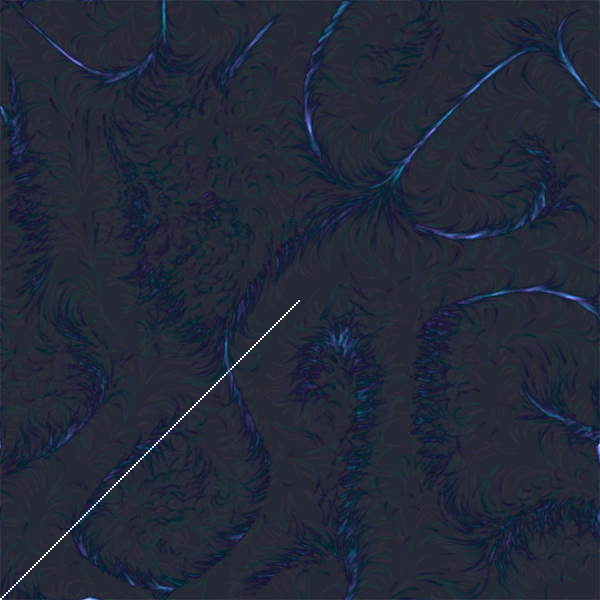
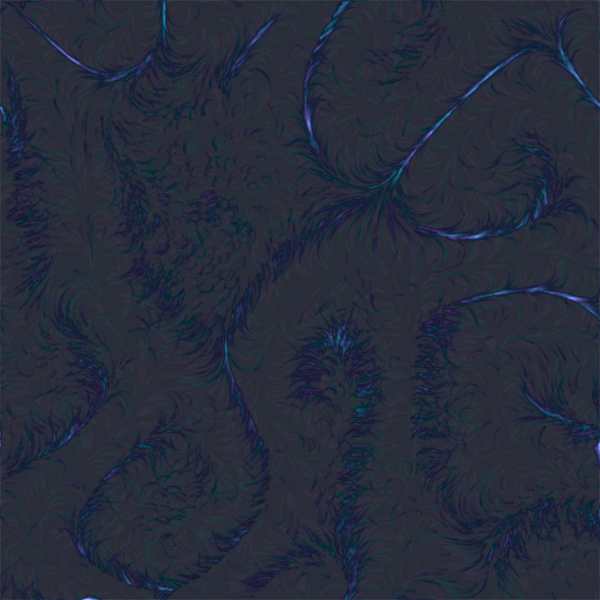
feat(web): give every example a still, and hold the blur back for the hover
The gallery ran ten scenes the moment you opened it and showed the other eight
behind a permanent frosted pane, so the ones you could see were the ones you
could not read. Now every card is a frame of its own scene, crisp, and the
scrim that makes the Run button legible only arrives with the pointer — or with
focus, since the control is reachable by tab and would otherwise be invisible
to whoever is using it that way.

Nothing runs until asked. That drops ten simultaneous WebGL contexts to none on
load, and it settles the question the keyboard change raised a moment ago: with
one scene running, the one listening for keys is not in doubt.

`capture:examples` covers all eighteen, warmed for what each is actually waiting
for — a particle system needs long enough to have particles, a physics pile long
enough to have fallen over, a poster is finished on frame one — and the bike
holds its throttle so it is caught over a bump rather than parked. The still is
filed under the scene's own name, so a new scene that forgets its capture shows
an empty frame instead of quietly borrowing someone else's.

diff --git a/apps/web/src/pages/examples.tsx b/apps/web/src/pages/examples.tsx
@@ -33,33 +33,40 @@ interface RunningScene {
 interface SceneSpec {
   readonly name: string;
   readonly run: (parent: HTMLElement) => RunningScene;
-  /** Skip autoplay: thousands of shapes, extra passes, or a WebGL hog. */
-  readonly heavy?: boolean;
-  /** Still shown under the Run overlay. Capture with `bun run capture:examples`. */
-  readonly preview?: string;
 }
 
 const PREVIEW = "/examples/assets/previews";
 
+/**
+ * The still for a scene, filed under its name.
+ *
+ * Every scene has one, so nothing has to be listed twice and a new scene that
+ * forgets its capture shows an empty frame rather than silently falling back
+ * to something else. Refresh them all with `bun run capture:examples`.
+ */
+function previewOf(name: string): string {
+  return `${PREVIEW}/${name.replaceAll(" ", "-")}.png`;
+}
+
 const SCENES: readonly SceneSpec[] = [
-  { name: "flow field", run: flowField, heavy: true, preview: `${PREVIEW}/flow-field.png` },
+  { name: "flow field", run: flowField },
   { name: "orbits", run: orbits },
   { name: "mouse trail", run: mouseTrail },
   { name: "particles", run: sparks },
-  { name: "grid waves", run: gridWaves, heavy: true, preview: `${PREVIEW}/grid-waves.png` },
+  { name: "grid waves", run: gridWaves },
   { name: "static poster", run: staticPoster },
   { name: "type specimen", run: typeSpecimen },
   { name: "image grid", run: imageGrid },
-  { name: "post bloom", run: postBloom, heavy: true, preview: `${PREVIEW}/post-bloom.png` },
-  { name: "petals", run: petals, heavy: true, preview: `${PREVIEW}/petals.png` },
+  { name: "post bloom", run: postBloom },
+  { name: "petals", run: petals },
   { name: "tile field", run: tileField },
-  { name: "characters", run: characters, heavy: true, preview: `${PREVIEW}/characters.png` },
-  { name: "blood mage", run: bloodMage, heavy: true, preview: `${PREVIEW}/blood-mage.png` },
+  { name: "characters", run: characters },
+  { name: "blood mage", run: bloodMage },
   { name: "rigid bodies", run: rigidBodies },
   { name: "chain", run: chain },
   { name: "bike", run: bike },
-  { name: "starfall", run: shmup, heavy: true, preview: `${PREVIEW}/starfall.png` },
-  { name: "raycaster", run: raycaster, heavy: true, preview: `${PREVIEW}/raycaster.png` },
+  { name: "starfall", run: shmup },
+  { name: "raycaster", run: raycaster },
 ];
 
 /** The window, as the two numbers the fit needs. */
@@ -70,15 +77,13 @@ function screenSize(): Viewport {
 function SceneCard({
   name,
   run,
-  heavy = false,
-  preview,
   onReady,
 }: SceneSpec & {
   readonly onReady: (name: string, app: RunningScene | null) => void;
 }): JSX.Element {
   const hostRef = useRef<HTMLDivElement>(null);
   const stageRef = useRef<HTMLDivElement>(null);
-  const [running, setRunning] = useState(!heavy);
+  const [running, setRunning] = useState(false);
   const [error, setError] = useState<string | null>(null);
 
   useEffect(() => {
@@ -101,12 +106,12 @@ function SceneCard({
   /**
    * Go fullscreen, starting the scene if it was still waiting for a click.
    *
-   * The request goes first and the scene starts second, because a heavy scene
-   * costs a frame or two to build and the browser only honours the request
-   * while the click that caused it is still recent. The overlay that offers
-   * "Run" sits on the card rather than on the stage, so a heavy scene taken
-   * fullscreen before starting would be a black screen with no way out but
-   * Escape — which is why the same control does both.
+   * The request goes first and the scene starts second, because building a
+   * scene costs a frame or two and the browser only honours the request while
+   * the click that caused it is still recent. The overlay that offers "Run"
+   * sits on the card rather than on the stage, so a scene taken fullscreen
+   * before starting would be a black screen with no way out but Escape — which
+   * is why the same control does both.
    */
   const goFullscreen = useCallback((): void => {
     void stageRef.current?.requestFullscreen?.();
@@ -123,7 +128,7 @@ function SceneCard({
       app = run(host);
       onReady(name, app);
       // A scene started by the fullscreen control arrives after the stage is
-      // already fullscreen, so it lands at its card size until it is refitted.
+      // already fullscreen, so it would sit at card size until it is refitted.
       if (document.fullscreenElement === stageRef.current) {
         fitToScreen(host, true, screenSize());
       }
@@ -138,7 +143,7 @@ function SceneCard({
   }, [name, onReady, run, running]);
 
   return (
-    <Card className="transition hover:-translate-y-0.5 hover:border-primary/50">
+    <Card className="group transition hover:-translate-y-0.5 hover:border-primary/50">
       <CardHeader
         className={cn(
           "gap-2.5 font-mono text-[0.65rem] font-semibold tracking-[0.08em] uppercase",
@@ -171,36 +176,42 @@ function SceneCard({
         <AspectRatio ratio={1}>
           {/* The element that goes fullscreen, so the canvas keeps a parent
               that centres it on a ground of our own rather than on white. */}
-          {!running && preview !== undefined ? (
+          {running ? null : (
             <img
-              src={preview}
-              alt=""
+              src={previewOf(name)}
+              alt={`${name}, a frame from the scene`}
               width={600}
               height={600}
+              loading="lazy"
               decoding="async"
-              aria-hidden="true"
               className="absolute inset-0 size-full object-cover"
             />
-          ) : null}
+          )}
+          {/* The element that goes fullscreen, so the canvas keeps a parent
+              that centres it on a ground of our own rather than on white. */}
           <div
-            ref={stageRef}
             // An inset outline rather than a ring: the card clips its content,
             // and a ring drawn outside the stage would be cut off exactly where
             // it is meant to be read.
-            className="absolute inset-0 bg-background outline-primary/80 focus-within:-outline-offset-2 focus-within:outline-2"
+            className="absolute inset-0 outline-primary/80 focus-within:-outline-offset-2 focus-within:outline-2"
           >
-            <div
-              ref={hostRef}
-              className={cn(
-                "grid size-full place-items-center [&>canvas]:outline-none",
-                running
-                  ? "bg-[radial-gradient(oklch(0.35_0.015_255_/_0.32)_0.7px,transparent_0.7px)] bg-size-[16px_16px]"
-                  : undefined,
-              )}
-            />
+            <div ref={stageRef} className={cn("size-full", running ? "bg-background" : undefined)}>
+              <div
+                ref={hostRef}
+                className={cn(
+                  "grid size-full place-items-center [&>canvas]:outline-none",
+                  running
+                    ? "bg-[radial-gradient(oklch(0.35_0.015_255_/_0.32)_0.7px,transparent_0.7px)] bg-size-[16px_16px]"
+                    : undefined,
+                )}
+              />
+            </div>
           </div>
           {!running && error === null ? (
-            <div className="absolute inset-0 flex items-center justify-center bg-background/40 backdrop-blur-md">
+            // The still is the card: it stays crisp, and the scrim that makes
+            // the button legible only arrives with the pointer. Focus reveals
+            // it too, or the control would be reachable by tab and invisible.
+            <div className="absolute inset-0 flex items-center justify-center bg-background/40 opacity-0 backdrop-blur-md transition-opacity duration-200 group-hover:opacity-100 focus-within:opacity-100">
               <Button type="button" onClick={() => setRunning(true)} aria-label={`Run ${name}`}>
                 <Play className="fill-current" />
                 Run
@@ -236,7 +247,7 @@ export function ExamplesPage(): JSX.Element {
     <main>
       <Container className="py-16">
         <PageHeader title="Examples">
-          {SCENES.length} scenes. The heavy ones wait for a click.
+          {SCENES.length} scenes, each showing a frame of itself. Hover one and press Run.
         </PageHeader>
         <div className="grid grid-cols-1 gap-4 md:grid-cols-2 xl:grid-cols-3">
           {SCENES.map((scene) => (

diff --git a/apps/web/src/capture.ts b/apps/web/src/capture.ts
@@ -2,27 +2,60 @@
  * Browser harness for `bun run capture:examples`.
  * Not linked from the site — Vite serves it as /capture.html in dev.
  */
+import { bike } from "../../../examples/bike";
 import { bloodMage } from "../../../examples/blood-mage";
+import { chain } from "../../../examples/chain";
 import { characters } from "../../../examples/characters";
 import { flowField } from "../../../examples/flow-field";
 import { gridWaves } from "../../../examples/grid-waves";
+import { imageGrid } from "../../../examples/image-grid";
+import { mouseTrail } from "../../../examples/mouse-trail";
+import { orbits } from "../../../examples/orbits";
+import { sparks } from "../../../examples/particles";
 import { petals } from "../../../examples/petals";
 import { postBloom } from "../../../examples/post-bloom";
 import { raycaster } from "../../../examples/raycaster";
+import { rigidBodies } from "../../../examples/rigid-bodies";
 import { shmup } from "../../../examples/shmup";
-import type { HazumiApp } from "hazumi/app";
+import { staticPoster } from "../../../examples/static-poster";
+import { tileField } from "../../../examples/tile-field";
+import { typeSpecimen } from "../../../examples/type-specimen";
+/**
+ * The part of an application a capture uses.
+ *
+ * Structural rather than `HazumiApp`, because scenes differ in the plugins
+ * they install — the physics ones hand back an application typed on their own
+ * extensions, and a capture has no opinion about that.
+ */
+interface Capturable {
+  readonly ready: Promise<void>;
+  redraw: () => void;
+  capturePng: () => Promise<Blob>;
+  stop: () => void;
+}
 
-type ExampleFn = (parent: HTMLElement) => HazumiApp;
+type ExampleFn = (parent: HTMLElement) => Capturable;
 
+/** Every scene the gallery shows, under the slug its still is filed as. */
 const SCENES: Readonly<Record<string, ExampleFn>> = {
+  bike,
   "blood-mage": bloodMage,
+  chain,
   characters,
   "flow-field": flowField,
   "grid-waves": gridWaves,
+  "image-grid": imageGrid,
+  "mouse-trail": mouseTrail,
+  orbits,
+  particles: sparks,
   petals,
   "post-bloom": postBloom,
   raycaster,
+  "rigid-bodies": rigidBodies,
   starfall: shmup,
+  "static-poster": staticPoster,
+  "tile-field": tileField,
+  "type-specimen": typeSpecimen,
 };
 
 function waitFrame(): Promise<void> {

diff --git a/examples/capture-previews.ts b/examples/capture-previews.ts
@@ -24,15 +24,33 @@ interface Preview {
   readonly hold?: string;
 }
 
+/**
+ * Every scene in the gallery, and how long to let it settle first.
+ *
+ * The gallery shows a still until you ask for the scene, so a missing one is a
+ * blank card. Warmups are per scene because they are not warming up the same
+ * thing: a particle system needs long enough to have particles, a physics pile
+ * needs long enough to have fallen over, and a poster is finished on frame one.
+ */
 const PREVIEWS: readonly Preview[] = [
   { slug: "flow-field", warmupMs: 1600 },
+  { slug: "orbits", warmupMs: 1400 },
+  { slug: "mouse-trail", warmupMs: 600 },
+  { slug: "particles", warmupMs: 1200 },
   { slug: "grid-waves", warmupMs: 400 },
+  { slug: "static-poster", warmupMs: 300 },
+  { slug: "type-specimen", warmupMs: 400 },
+  { slug: "image-grid", warmupMs: 700 },
   { slug: "post-bloom", warmupMs: 500 },
   { slug: "petals", warmupMs: 400 },
+  { slug: "tile-field", warmupMs: 900 },
   { slug: "characters", warmupMs: 700 },
   { slug: "blood-mage", warmupMs: 700 },
-  { slug: "raycaster", warmupMs: 500 },
+  { slug: "rigid-bodies", warmupMs: 2600 },
+  { slug: "chain", warmupMs: 1600 },
+  { slug: "bike", warmupMs: 4200, hold: "ArrowRight" },
   { slug: "starfall", warmupMs: 3200, hold: " " },
+  { slug: "raycaster", warmupMs: 500 },
 ];
 
 async function serverUp(): Promise<boolean> {
